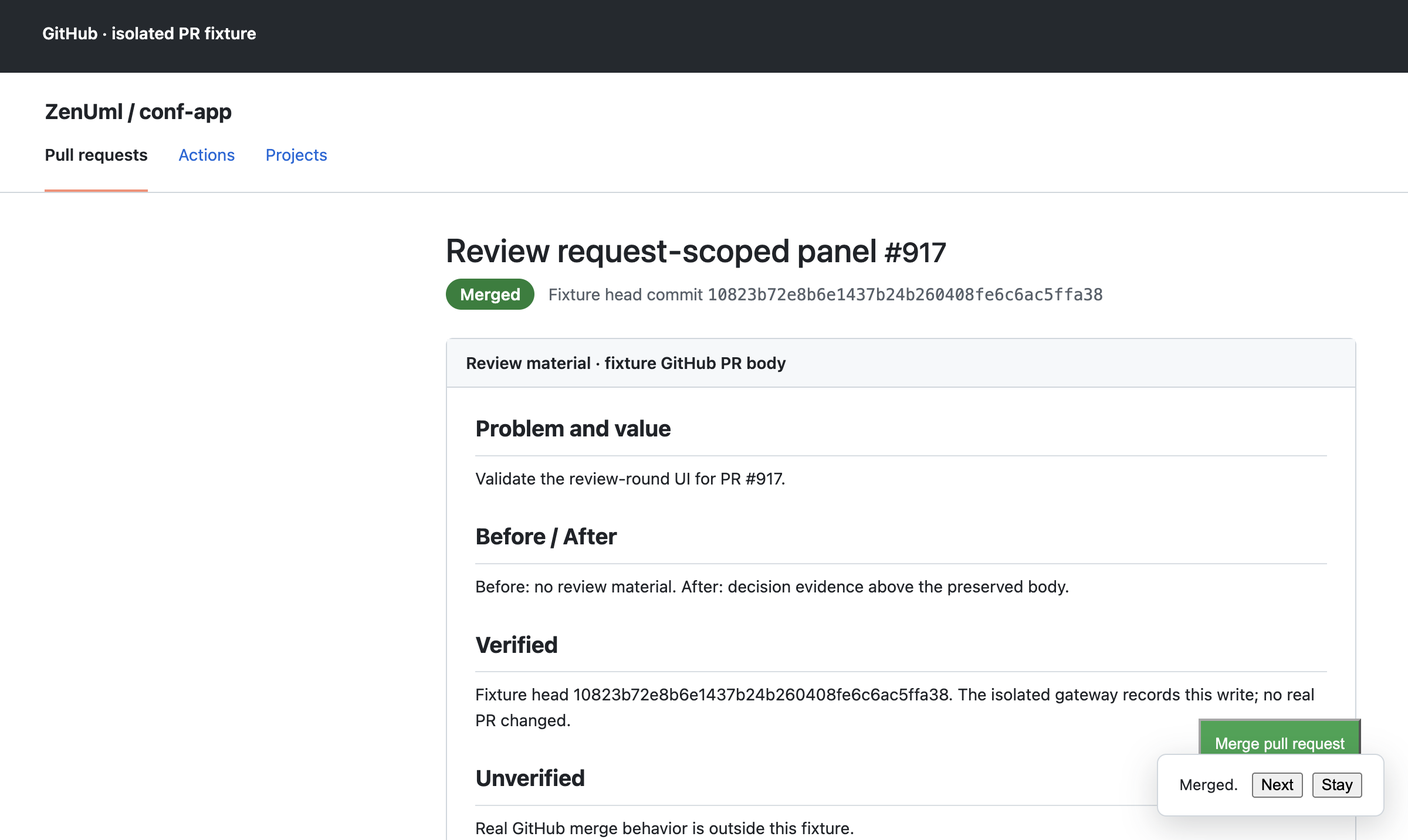
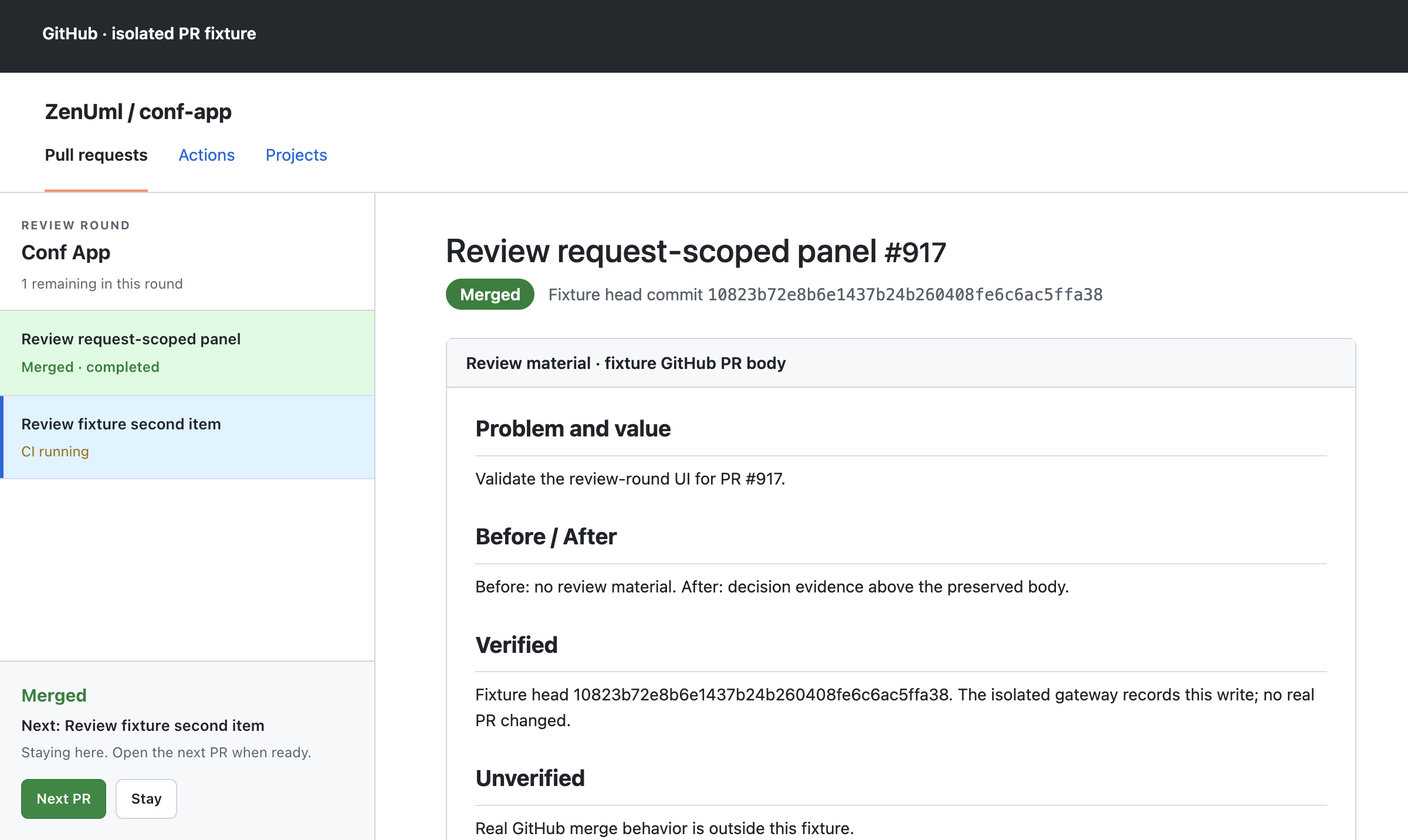
fix(pr-panel): retain native completion context in review rail

diff --git a/packages/pr-agent-panel/extension/src/content/controller.ts b/packages/pr-agent-panel/extension/src/content/controller.ts
@@ -1,5 +1,5 @@
 /** Wires the request-scoped review list to one GitHub tab and its broker port. */
-import { createApp, h, type App } from 'vue'
+import { createApp, h, ref, type App } from 'vue'
 import { repoKeyOf, type PrRef, type ReviewGroupItem } from '@zenuml/pr-panel-shared'
 import type { ContentScriptContext } from 'wxt/utils/content-script-context'
 import { createShadowRootUi, type ShadowRootContentScriptUi } from 'wxt/utils/content-script-ui/shadow-root'
@@ -10,6 +10,7 @@ import { parsePrRef, parseRepoRef, readPrState, readViewerLogin } from '../pr/id
 import { getPrefs, onPrefsChanged, setPref } from '../state/prefs'
 import AgentPanel from '../ui/AgentPanel.vue'
 import ReviewGroupList from '../ui/ReviewGroupList.vue'
+import { completedItemForPage, shouldShowReviewList, type CompletionFeedback } from './review-group-page'
 import { createPageStore } from './store'
 
 export function createPageController(ctx: ContentScriptContext) {
@@ -28,8 +29,11 @@ export function createPageController(ctx: ContentScriptContext) {
   let nativeAction: 'merge' | 'close' | null = null
   let resultHintSent = false
   let nextTimer: ReturnType<typeof setTimeout> | null = null
-  let resultNotice: HTMLElement | null = null
+  const completionFeedback = ref<CompletionFeedback | null>(null)
   let materialNotice: HTMLElement | null = null
+  let listMountGeneration = 0
+
+  const listVisible = () => shouldShowReviewList(state.group, state.pr, completionFeedback.value)
 
   function telemetry(event: TelemetryEvent, props: TelemetryProps = {}) {
     try {
@@ -148,8 +152,9 @@ export function createPageController(ctx: ContentScriptContext) {
   }
 
   async function mountList() {
+    const generation = ++listMountGeneration
     removeList()
-    if (!state.pr || !store.currentGroupItem.value || !state.group || ctx.isInvalid) return
+    if (!listVisible() || !state.group || ctx.isInvalid) return
     const ui = await createOrphanSafeUi<App>({
       name: 'zenuml-pr-list',
       position: 'inline',
@@ -166,10 +171,18 @@ export function createPageController(ctx: ContentScriptContext) {
               group: state.group!,
               preparation: state.preparation,
               currentPrNumber: state.pr?.number ?? 0,
+              completedItem: completedItemForPage(state.group, state.pr, completionFeedback.value),
+              autoAdvance: completionFeedback.value?.autoAdvance ?? false,
               offline: state.status.state !== 'connected',
               onOpen: (item: ReviewGroupItem) => {
                 location.assign(item.pr.url ?? `https://${item.pr.host}/${item.pr.owner}/${item.pr.repo}/pull/${item.pr.number}`)
               },
+              onNext: () => {
+                clearNextTimer()
+                const next = store.pendingGroupItems.value[0]
+                if (next) location.assign(next.pr.url ?? `https://${next.pr.host}/${next.pr.owner}/${next.pr.repo}/pull/${next.pr.number}`)
+              },
+              onStay: cancelAdvance,
             }),
         })
         app.mount(container)
@@ -179,7 +192,10 @@ export function createPageController(ctx: ContentScriptContext) {
         app?.unmount()
       },
     })
-    if (!ui || !store.currentGroupItem.value) return
+    if (!ui || generation !== listMountGeneration || !listVisible()) {
+      ui?.remove()
+      return
+    }
     removeList()
     listUi = ui
     ui.mount()
@@ -271,7 +287,7 @@ export function createPageController(ctx: ContentScriptContext) {
       return
     }
     refreshPageDetails()
-    if (!state.pr || !store.currentGroupItem.value) {
+    if (!listVisible()) {
       removeList()
       if (!store.currentGroupItem.value) materialNotice?.remove()
       return
@@ -310,7 +326,7 @@ export function createPageController(ctx: ContentScriptContext) {
       nativeAction = null
       resultHintSent = false
       clearNextTimer()
-      resultNotice?.remove()
+      completionFeedback.value = null
       materialNotice?.remove()
       port?.send(envelope({ type: 'unregister' as const, documentId }))
       registerCurrent()
@@ -326,35 +342,24 @@ export function createPageController(ctx: ContentScriptContext) {
     nextTimer = null
   }
 
+  function cancelAdvance() {
+    if (!nextTimer) return
+    clearNextTimer()
+    if (completionFeedback.value) completionFeedback.value = { ...completionFeedback.value, autoAdvance: false }
+  }
+
   function showNativeResult(outcome: 'merged' | 'closed') {
     clearNextTimer()
-    resultNotice?.remove()
+    if (!state.group || !state.pr) return
     const next = store.pendingGroupItems.value[0]
-    const notice = document.createElement('div')
-    notice.id = 'zenuml-review-result'
-    notice.style.cssText = 'position:fixed;right:20px;bottom:20px;z-index:2147483000;padding:15px 18px;border:1px solid #d0d7de;border-radius:8px;background:white;box-shadow:0 8px 28px #1f232833;color:#1f2328;font:13px system-ui,sans-serif'
-    const label = document.createElement('span')
-    label.textContent = outcome === 'merged' ? 'Merged. ' : 'Closed. '
-    notice.append(label)
+    completionFeedback.value = { groupId: state.group.groupId, pr: state.pr, outcome, autoAdvance: !!next }
+    void mountList()
     if (next) {
-      const go = document.createElement('button')
-      go.type = 'button'
-      go.textContent = 'Next'
-      go.style.cssText = 'margin-left:8px;margin-right:8px'
-      go.onclick = (event) => { event.stopPropagation(); clearNextTimer(); location.assign(next.pr.url ?? `https://${next.pr.host}/${next.pr.owner}/${next.pr.repo}/pull/${next.pr.number}`) }
-      const stay = document.createElement('button')
-      stay.type = 'button'
-      stay.textContent = 'Stay'
-      stay.onclick = (event) => { event.stopPropagation(); clearNextTimer(); label.textContent = 'Staying on this PR. ' }
-      notice.append(go, stay)
       nextTimer = setTimeout(() => { nextTimer = null; location.assign(next.pr.url ?? `https://${next.pr.host}/${next.pr.owner}/${next.pr.repo}/pull/${next.pr.number}`) }, 3000)
-    } else label.textContent += 'Round complete.'
-    document.body.append(notice)
-    resultNotice = notice
+    }
   }
 
   function onPageClick(event: PointerEvent) {
-    if (nextTimer && resultNotice && !event.composedPath().includes(resultNotice)) clearNextTimer()
     if (!store.currentGroupItem.value || !event.isTrusted) return
     const button = (event.target as Element | null)?.closest('button, summary')
     const text = button?.textContent?.trim().toLowerCase() ?? ''
@@ -362,8 +367,8 @@ export function createPageController(ctx: ContentScriptContext) {
     else if (/^close pull request/.test(text)) nativeAction = 'close'
   }
 
-  function onUserInteraction(event: Event) {
-    if (nextTimer && (!resultNotice || !event.composedPath().includes(resultNotice))) clearNextTimer()
+  function onUserInteraction() {
+    cancelAdvance()
   }
 
   /**
@@ -411,6 +416,7 @@ export function createPageController(ctx: ContentScriptContext) {
       port?.send(envelope({ type: 'unregister' as const, documentId }))
       port?.disconnect()
       observer?.disconnect()
+      clearNextTimer()
       // WXT removes the shadow-root UIs itself, but not the page-level content shift or the wheel guard.
       removeList()
     })

diff --git a/packages/pr-agent-panel/extension/src/ui/ReviewGroupList.vue b/packages/pr-agent-panel/extension/src/ui/ReviewGroupList.vue
@@ -1,15 +1,22 @@
 <script setup lang="ts">
+import { computed } from 'vue'
 import type { ReviewGroup, ReviewGroupPreparation, ReviewGroupItem } from '@zenuml/pr-panel-shared'
 
-defineProps<{
+const props = defineProps<{
   group: ReviewGroup
   preparation: ReviewGroupPreparation | null
   currentPrNumber: number
+  completedItem: ReviewGroupItem | null
+  autoAdvance: boolean
   offline: boolean
 }>()
-const emit = defineEmits<{ open: [item: ReviewGroupItem] }>()
+const emit = defineEmits<{ open: [item: ReviewGroupItem]; next: []; stay: [] }>()
 
 const ciLabel = { success: 'CI passed', failure: 'CI failed', pending: 'CI running', unknown: 'CI unknown' }
+const key = (item: ReviewGroupItem) => `${item.pr.host}/${item.pr.owner}/${item.pr.repo}#${item.pr.number}`.toLowerCase()
+const nextItem = computed(() => props.group.items.find((item) => item.outcome === 'pending') ?? null)
+const remaining = computed(() => props.group.items.filter((item) => item.outcome === 'pending').length)
+const rows = computed(() => props.group.items.filter((item) => item.outcome === 'pending' || (props.completedItem && key(item) === key(props.completedItem))))
 </script>
 
 <template>
@@ -20,15 +27,29 @@ const ciLabel = { success: 'CI passed', failure: 'CI failed', pending: 'CI runni
       <p v-if="preparation?.error" class="rg-error">New round failed: {{ preparation.error }}</p>
       <p v-else-if="preparation" class="rg-note">Preparing a new round · showing the previous round</p>
       <p v-else-if="offline" class="rg-note">Offline · showing saved round. Reconnect in the extension popup.</p>
-      <p v-else class="rg-note">{{ group.items.filter(item => item.outcome === 'pending').length }} remaining in this round</p>
+      <p v-else class="rg-note">{{ completedItem && !remaining ? 'Round complete' : `${remaining} remaining in this round` }}</p>
     </header>
     <ol class="rg-rows">
-      <li v-for="item in group.items.filter(item => item.outcome === 'pending')" :key="`${item.pr.owner}/${item.pr.repo}#${item.pr.number}`">
-        <button class="rg-row" :class="{ 'rg-row-current': item.pr.number === currentPrNumber }" type="button" @click="emit('open', item)">
+      <li v-for="item in rows" :key="key(item)">
+        <div v-if="completedItem && key(item) === key(completedItem)" class="rg-row rg-row-completed" data-testid="completed-row">
+          <span class="rg-title">{{ item.decisionTitle }}</span>
+          <span class="rg-completed-label">{{ item.outcome === 'merged' ? 'Merged' : 'Closed' }} · completed</span>
+        </div>
+        <button v-else class="rg-row" :class="{ 'rg-row-current': !completedItem && item.pr.number === currentPrNumber, 'rg-row-next': completedItem && nextItem && key(item) === key(nextItem) }" type="button" @click="emit('open', item)">
           <span class="rg-title">{{ item.decisionTitle }}</span>
           <span class="rg-ci" :class="`rg-ci-${item.ci}`">{{ ciLabel[item.ci] }}</span>
         </button>
       </li>
     </ol>
+    <div v-if="completedItem" class="rg-completion" role="status" aria-live="polite">
+      <strong>{{ completedItem.outcome === 'merged' ? 'Merged' : 'Closed' }}</strong>
+      <p v-if="nextItem" class="rg-completion-next">Next: {{ nextItem.decisionTitle }}</p>
+      <p v-if="nextItem" class="rg-completion-hint">{{ autoAdvance ? 'Opening next in 3 seconds. Any interaction pauses it.' : 'Staying here. Open the next PR when ready.' }}</p>
+      <p v-else class="rg-completion-hint">Round complete. No more PRs in this round.</p>
+      <div v-if="nextItem" class="rg-completion-actions">
+        <button class="rg-next" type="button" @click="emit('next')">Next PR</button>
+        <button class="rg-stay" type="button" @click="emit('stay')">Stay</button>
+      </div>
+    </div>
   </aside>
 </template>

diff --git a/packages/pr-agent-panel/extension/src/ui/ReviewGroupList.spec.ts b/packages/pr-agent-panel/extension/src/ui/ReviewGroupList.spec.ts
@@ -1,0 +1,41 @@
+import { describe, expect, it } from 'vitest'
+import { mount } from '@vue/test-utils'
+import type { ReviewGroup } from '@zenuml/pr-panel-shared'
+import ReviewGroupList from './ReviewGroupList.vue'
+
+const group: ReviewGroup = {
+  groupId: 'round-1', product: 'Example', requestedCount: 2, status: 'ready', createdAt: 1, updatedAt: 2,
+  items: [
+    { pr: { host: 'github.com', owner: 'example-owner', repo: 'example-repo', number: 7 }, decisionTitle: 'Review first', ci: 'success', materialHeadSha: 'aaaaaaa', materialUpdatedAt: 1, outcome: 'pending' },
+    { pr: { host: 'github.com', owner: 'example-owner', repo: 'example-repo', number: 8 }, decisionTitle: 'Review second', ci: 'pending', materialHeadSha: 'bbbbbbb', materialUpdatedAt: 1, outcome: 'pending' },
+  ],
+}
+
+describe('ReviewGroupList completion transition', () => {
+  it('shows the completed row, highlights the next PR, and provides keyboard-focusable Next and Stay actions', async () => {
+    const wrapper = mount(ReviewGroupList, { props: { group, preparation: null, currentPrNumber: 7, completedItem: null, autoAdvance: false, offline: false } })
+    expect(wrapper.find('[data-testid="completed-row"]').exists()).toBe(false)
+    const completed: ReviewGroup = { ...group, items: [{ ...group.items[0]!, outcome: 'merged' }, group.items[1]!] }
+    await wrapper.setProps({ group: completed, completedItem: completed.items[0]!, autoAdvance: true })
+    expect(wrapper.find('[data-testid="completed-row"]').text()).toContain('Merged · completed')
+    expect(wrapper.find('.rg-row-next').text()).toContain('Review second')
+    expect(wrapper.find('.rg-completion').text()).toContain('Opening next in 3 seconds')
+    expect(wrapper.get('.rg-next').element.tagName).toBe('BUTTON')
+    expect(wrapper.get('.rg-stay').element.tagName).toBe('BUTTON')
+    await wrapper.get('.rg-stay').trigger('click')
+    expect(wrapper.emitted('stay')).toHaveLength(1)
+    await wrapper.setProps({ autoAdvance: false })
+    expect(wrapper.find('.rg-completion').text()).toContain('Staying here')
+    await wrapper.get('.rg-next').trigger('click')
+    expect(wrapper.emitted('next')).toHaveLength(1)
+  })
+
+  it('shows a final round completion without offering another PR', () => {
+    const done: ReviewGroup = { ...group, status: 'completed', items: group.items.map((item) => ({ ...item, outcome: 'closed' })) }
+    const wrapper = mount(ReviewGroupList, { props: { group: done, preparation: null, currentPrNumber: 8, completedItem: done.items[1]!, autoAdvance: false, offline: false } })
+    expect(wrapper.text()).toContain('Round complete. No more PRs in this round.')
+    expect(wrapper.findAll('[data-testid="completed-row"]')).toHaveLength(1)
+    expect(wrapper.find('.rg-next').exists()).toBe(false)
+    expect(wrapper.find('.rg-stay').exists()).toBe(false)
+  })
+})

diff --git a/packages/pr-agent-panel/extension/src/content/review-group-page.spec.ts b/packages/pr-agent-panel/extension/src/content/review-group-page.spec.ts
@@ -1,0 +1,32 @@
+import { describe, expect, it } from 'vitest'
+import type { PrRef, ReviewGroup } from '@zenuml/pr-panel-shared'
+import { completedItemForPage, shouldShowReviewList, type CompletionFeedback } from './review-group-page'
+
+const first: PrRef = { host: 'github.com', owner: 'example-owner', repo: 'example-repo', number: 7 }
+const second: PrRef = { ...first, number: 8 }
+const group: ReviewGroup = {
+  groupId: 'round-1', product: 'Example', requestedCount: 2, status: 'ready', createdAt: 1, updatedAt: 2,
+  items: [
+    { pr: first, decisionTitle: 'Review first', ci: 'success', materialHeadSha: 'aaaaaaa', materialUpdatedAt: 1, outcome: 'pending' },
+    { pr: second, decisionTitle: 'Review second', ci: 'pending', materialHeadSha: 'bbbbbbb', materialUpdatedAt: 1, outcome: 'pending' },
+  ],
+}
+
+describe('review group page visibility', () => {
+  it('keeps a just-completed native item visible with the next pending item, then hides it on other pages', () => {
+    expect(shouldShowReviewList(group, first, null)).toBe(true)
+    const completed: ReviewGroup = { ...group, items: [{ ...group.items[0]!, outcome: 'merged' }, group.items[1]!] }
+    const feedback: CompletionFeedback = { groupId: group.groupId, pr: first, outcome: 'merged', autoAdvance: true }
+    expect(shouldShowReviewList(completed, first, null)).toBe(false) // external result has no completion feedback
+    expect(shouldShowReviewList(completed, first, feedback)).toBe(true)
+    expect(completedItemForPage(completed, first, feedback)?.outcome).toBe('merged')
+    expect(shouldShowReviewList(completed, { ...first, number: 99 }, feedback)).toBe(false)
+    expect(shouldShowReviewList({ ...completed, groupId: 'round-2' }, first, feedback)).toBe(false)
+  })
+
+  it('keeps the final completed item visible only for its own native feedback', () => {
+    const done: ReviewGroup = { ...group, status: 'completed', items: group.items.map((item) => ({ ...item, outcome: 'closed' })) }
+    expect(shouldShowReviewList(done, second, { groupId: group.groupId, pr: second, outcome: 'closed', autoAdvance: false })).toBe(true)
+    expect(shouldShowReviewList(done, second, null)).toBe(false)
+  })
+})

diff --git a/packages/pr-agent-panel/extension/src/ui/list.css b/packages/pr-agent-panel/extension/src/ui/list.css
@@ -11,11 +11,25 @@
 .rg-row:hover { background: #f6f8fa; }
 .rg-row:focus-visible { outline: 2px solid #0969da; outline-offset: -2px; }
 .rg-row-current, .rg-row-current:hover { background: #ddf4ff; }
+.rg-row-next, .rg-row-next:hover { background: #ddf4ff; box-shadow: inset 3px 0 #0969da; }
+.rg-row-completed { background: #dafbe1; cursor: default; }
+.rg-completed-label { color: #1a7f37; font-size: 12px; font-weight: 600; }
 .rg-title { color: #1f2328; font-size: 13px; line-height: 1.35; font-weight: 600; overflow-wrap: anywhere; }
 .rg-ci { color: #59636e; font-size: 12px; line-height: 1.3; }
 .rg-ci-success { color: #1a7f37; }
 .rg-ci-failure { color: #cf222e; }
 .rg-ci-pending { color: #9a6700; }
+.rg-completion { margin-top: auto; padding: 18px; border-top: 1px solid #d0d7de; background: #f6f8fa; }
+.rg-completion strong { color: #1a7f37; font-size: 15px; }
+.rg-completion-next { margin: 6px 0 0; color: #1f2328; font-size: 13px; font-weight: 600; overflow-wrap: anywhere; }
+.rg-completion-hint { margin: 6px 0 0; color: #59636e; font-size: 12px; }
+.rg-completion-actions { display: flex; gap: 8px; margin-top: 14px; }
+.rg-completion-actions button { min-height: 34px; padding: 6px 12px; border: 1px solid #d0d7de; border-radius: 6px; font: inherit; font-size: 12px; font-weight: 600; cursor: pointer; }
+.rg-completion-actions button:focus-visible { outline: 2px solid #0969da; outline-offset: 2px; }
+.rg-next { color: #fff; background: #1f883d; border-color: #1a7f37 !important; }
+.rg-next:hover { background: #1a7f37; }
+.rg-stay { color: #1f2328; background: #fff; }
+.rg-stay:hover { background: #f3f4f6; }
 :host(zenuml-pr-list) {
   all: initial;
   display: block;

diff --git a/packages/pr-agent-panel/extension/src/content/review-group-page.ts b/packages/pr-agent-panel/extension/src/content/review-group-page.ts
@@ -1,0 +1,21 @@
+import { repoKeyOf, type PrRef, type ReviewGroup, type ReviewGroupItem } from '@zenuml/pr-panel-shared'
+
+export interface CompletionFeedback {
+  groupId: string
+  pr: PrRef
+  outcome: 'merged' | 'closed'
+  autoAdvance: boolean
+}
+
+/** A completed item remains on its own page only while native completion feedback is active. */
+export function completedItemForPage(group: ReviewGroup | null, pr: PrRef | null, feedback: CompletionFeedback | null): ReviewGroupItem | null {
+  if (!group || !pr || !feedback || group.groupId !== feedback.groupId) return null
+  if (repoKeyOf(pr) !== repoKeyOf(feedback.pr) || pr.number !== feedback.pr.number) return null
+  return group.items.find((item) => repoKeyOf(item.pr) === repoKeyOf(pr) && item.pr.number === pr.number && item.outcome === feedback.outcome) ?? null
+}
+
+export function shouldShowReviewList(group: ReviewGroup | null, pr: PrRef | null, feedback: CompletionFeedback | null): boolean {
+  if (!group || !pr) return false
+  return group.items.some((item) => repoKeyOf(item.pr) === repoKeyOf(pr) && item.pr.number === pr.number && item.outcome === 'pending')
+    || completedItemForPage(group, pr, feedback) !== null
+}

diff --git a/packages/pr-agent-panel/docs/verification-2026-10-27.md b/packages/pr-agent-panel/docs/verification-2026-10-27.md
@@ -1,12 +1,12 @@
 # Review round verification — 2026-10-27
 
-Candidate: `7dbf59bbae205cfc74168014ddd7303a0c6296ab` plus these evidence files. The application source did not change after that commit.
+Candidate: the source and screenshots in this branch. The screenshots use the same final extension build as the completion-state code.
 
 ## Automated checks
 
 - Shared: TypeScript check and 10 Vitest tests passed.
 - Hub: TypeScript check, 71 Vitest tests, and production build passed.
-- Extension: TypeScript check, 115 Vitest tests, and MV3 production build passed.
+- Extension: TypeScript check, 120 Vitest tests, and MV3 production build passed.
 - Mermaid component and ER diagrams parsed, and the ZenUML sequence diagram parsed.
 
 These checks cover protocol validation, group replacement, GitHub body preservation, navigation rules, and UI components. They do not replace browser observation.
@@ -19,9 +19,10 @@ An isolated local Hub used a fixture `gh` command and its own runtime directory.
 | --- | --- |
 | [Real GitHub PR page](screenshots/review-round-real-github.png) | On the actual public PR #917 page, the extension rendered the two-item left column and a stale-material notice above the existing body. The fixture group referred to an older head, so the stale notice was expected. This page was read before the PR description below was updated. |
 | [Fixture material](screenshots/review-round-fixture-materials.png) | A published two-item round showed the left list and marked decision material above the preserved PR body. |
-| [Fixture native result](screenshots/review-round-fixture-native-result.png) | The simulated native merge was confirmed through the Hub's fixture gateway; the current tab showed **Next / Stay**. |
+| [Fixture native result](screenshots/review-round-fixture-native-result.png) | The simulated native merge was confirmed through the Hub's fixture gateway. The left column retained the completed item, highlighted the next item, and showed primary **Next PR** and secondary **Stay** actions. Stay cancelled automatic advance. |
+| [Fixture final item](screenshots/review-round-fixture-round-complete.png) | Closing the last item kept an explicit **Round complete** state with no next action or automatic refill. |
 | [Fixture zero result](screenshots/review-round-fixture-zero.png) | Publishing zero items removed the left list. |
 
-The same isolated runtime also exercised preparation failure (old group retained), changed-head stale detection, **Stay** cancelling the three-second advance, AI action confirmation with an open PR (no advance), AI confirmation after remote merge (owned tab advanced without focus change), and an externally observed merge (group updated without navigation). These observations use fixture GitHub state. Actual authenticated GitHub merge/close behavior has not been exercised.
+The same isolated runtime also exercised preparation failure (old group retained), changed-head stale detection, three-second automatic advance, **Stay** cancelling that advance, **Next PR** opening the next item, AI action confirmation with an open PR (no advance), AI confirmation after remote merge (owned tab advanced without focus change), and an externally observed merge (group updated without navigation). These observations use fixture GitHub state. Actual authenticated GitHub merge/close behavior has not been exercised.
 
 This is a Chrome extension and local Hub change. It does not change the Confluence UI, so the Confluence Storybook → Forge Tunnel → staging path does not apply.

diff --git a/packages/pr-agent-panel/ARCHITECTURE.zh-CN.md b/packages/pr-agent-panel/ARCHITECTURE.zh-CN.md
@@ -17,7 +17,7 @@ flowchart LR
   Broker --> Cache[("extension storage<br/>最近组、所属标签")]
 ```
 
-内容脚本仅在当前 PR 是最新组的待处理成员时挂载左栏；不挂永久网页聊天面板。`ReviewGroupList.vue` 只呈现决策标题、CI 和当前项高亮。材料提示插在 PR 正文之前。弹窗负责恢复当前轮次与连接设置。Service Worker 汇聚多个页面连接，只允许它创建和更新评审所属标签。Hub 校验请求版本、保存状态，并在必要时使用本机 `gh` 访问 GitHub。
+内容脚本仅在当前 PR 是最新组的待处理成员时挂载左栏，或在本标签刚完成原生操作后暂时保留完成反馈；不挂永久网页聊天面板。`ReviewGroupList.vue` 平时呈现决策标题、CI 和当前项高亮，完成时另显示已完成项、下一项和操作按钮。材料提示插在 PR 正文之前。弹窗负责恢复当前轮次与连接设置。Service Worker 汇聚多个页面连接，只允许它创建和更新评审所属标签。Hub 校验请求版本、保存状态，并在必要时使用本机 `gh` 访问 GitHub。
 
 ## 数据模型
 
@@ -105,6 +105,6 @@ Worker -> Page: 显示 Next / Stay
 
 MCP 工具负责 `start_review_group`、`publish_review_group`、`fail_review_group`、`get_review_group`、`bind_review_action`、`confirm_review_action` 和 `refresh_review_material`。材料写入只发生在显式准备或刷新工具调用。发布前先预检所选 PR，写每个 PR 时再核实 head；若任一步失败，保留旧组并显示错误。GitHub 不提供多 PR 正文事务，因此发生中途失败时，已写入的材料可能留在先前选中 PR；组仍不会切换。
 
-Hub 以远端 GitHub 状态作为合并/关闭结果依据：未确认则项目留在组内；已确认则移除待处理集合，重复通知不会重复完成。原生操作仅原操作标签可倒计时跳转，任何页面交互取消；AI 操作只有所属评审标签仍显示绑定目标时才可更新 URL，且不激活窗口或其他标签。定时远端同步发现的外部变化只更新组，不导航。CI 同步只改行内状态，不重写材料。
+Hub 以远端 GitHub 状态作为合并/关闭结果依据：未确认则项目留在组内；已确认则移除待处理集合，重复通知不会重复完成。原生操作仅原操作标签显示完成反馈：左栏暂时保留该已完成项并高亮下一项，底部提供 Next PR / Stay；三秒倒计时跳转由任何页面交互取消。最后一项显示本轮完成，不补位。AI 操作只有所属评审标签仍显示绑定目标时才可更新 URL，且不激活窗口或其他标签。定时远端同步发现的外部变化只更新组，不导航。CI 同步只改行内状态，不重写材料。
 
 旧 `ReviewStore`、任务和消息工具仍供兼容读取；网页不再展示它们形成的永久清单。Hub 不启动模型，也不授予合并权限。

diff --git a/packages/pr-agent-panel/USER_GUIDE.zh-CN.md b/packages/pr-agent-panel/USER_GUIDE.zh-CN.md
@@ -1,6 +1,6 @@
 # ZenUML PR Agent Panel 使用指南
 
-这是用于 GitHub PR 决策的一轮式 Chrome 扩展。你在 Claude Code 或 Codex 中明确提出“准备本轮 PR 评审”后，Agent 筛选有限数量的 PR、核实证据，并把本轮清单交给本机 Hub。只有本轮成员 PR 显示左栏；左栏每行只有决策标题和当前 CI。详细证据位于对应 PR 正文顶部的标记区，原正文保留。
+这是用于 GitHub PR 决策的一轮式 Chrome 扩展。你在 Claude Code 或 Codex 中明确提出“准备本轮 PR 评审”后，Agent 筛选有限数量的 PR、核实证据，并把本轮清单交给本机 Hub。只有本轮待处理成员 PR 显示左栏；原生操作刚完成时，本标签会暂时保留完成反馈。通常每行只有决策标题和当前 CI。详细证据位于对应 PR 正文顶部的标记区，原正文保留。
 
 Claude Desktop 的聊天列表不会显示 Codex 或 Claude Code 会话。本插件也不在不同聊天客户端之间同步完整对话。
 
@@ -38,7 +38,7 @@ codex mcp get pr-panel
 2. Agent 为选中的 PR 准备问题与价值、Before/After、已验证命令和结果、未验证部分、风险及建议决策，再调用 `publish_review_group`。Hub 只写这些选中 PR 的标记材料，并在全部准备完成后替换左栏。允许少于请求数量；零结果会清空旧侧栏。
 3. 新一轮准备期间仍显示上一轮，并注明准备状态。失败时保留上一轮且显示原因。只有最新请求可以发布，旧请求的迟到结果会被拒绝。
 4. 打开本轮第一项后，在原生 GitHub PR 页面阅读证据和操作。切换到其他成员 PR，左栏会高亮当前项；非成员 PR 没有侧栏。
-5. 原生合并或关闭经 Hub 查询 GitHub 确认后，当前操作标签页显示 **Next / Stay**。三秒后自动进入下一项；任何页面交互或选择 Stay 会取消计时。外部操作只更新状态，不移动浏览器标签。AI 操作也必须先锁定本轮、仓库、PR 和 head，并在 GitHub 确认成功后才移除项目；该锁定不构成合并授权。
+5. 原生合并或关闭经 Hub 查询 GitHub 确认后，左栏暂时保留已完成项、突出下一项，并在底部显示 **Next PR / Stay**。三秒后自动进入下一项；任何页面交互或选择 Stay 会取消计时。最后一项完成时左栏显示 **Round complete**，不会自动补位。外部操作只更新状态，不移动浏览器标签。AI 操作也必须先锁定本轮、仓库、PR 和 head，并在 GitHub 确认成功后才移除项目；该锁定不构成合并授权。
 
 问题、单项操作和单项证据刷新保留本轮顺序与进度。明确重新准备、改变产品、筛选条件或关注点才创建新一轮。完成后不会自动补充新 PR。
 
